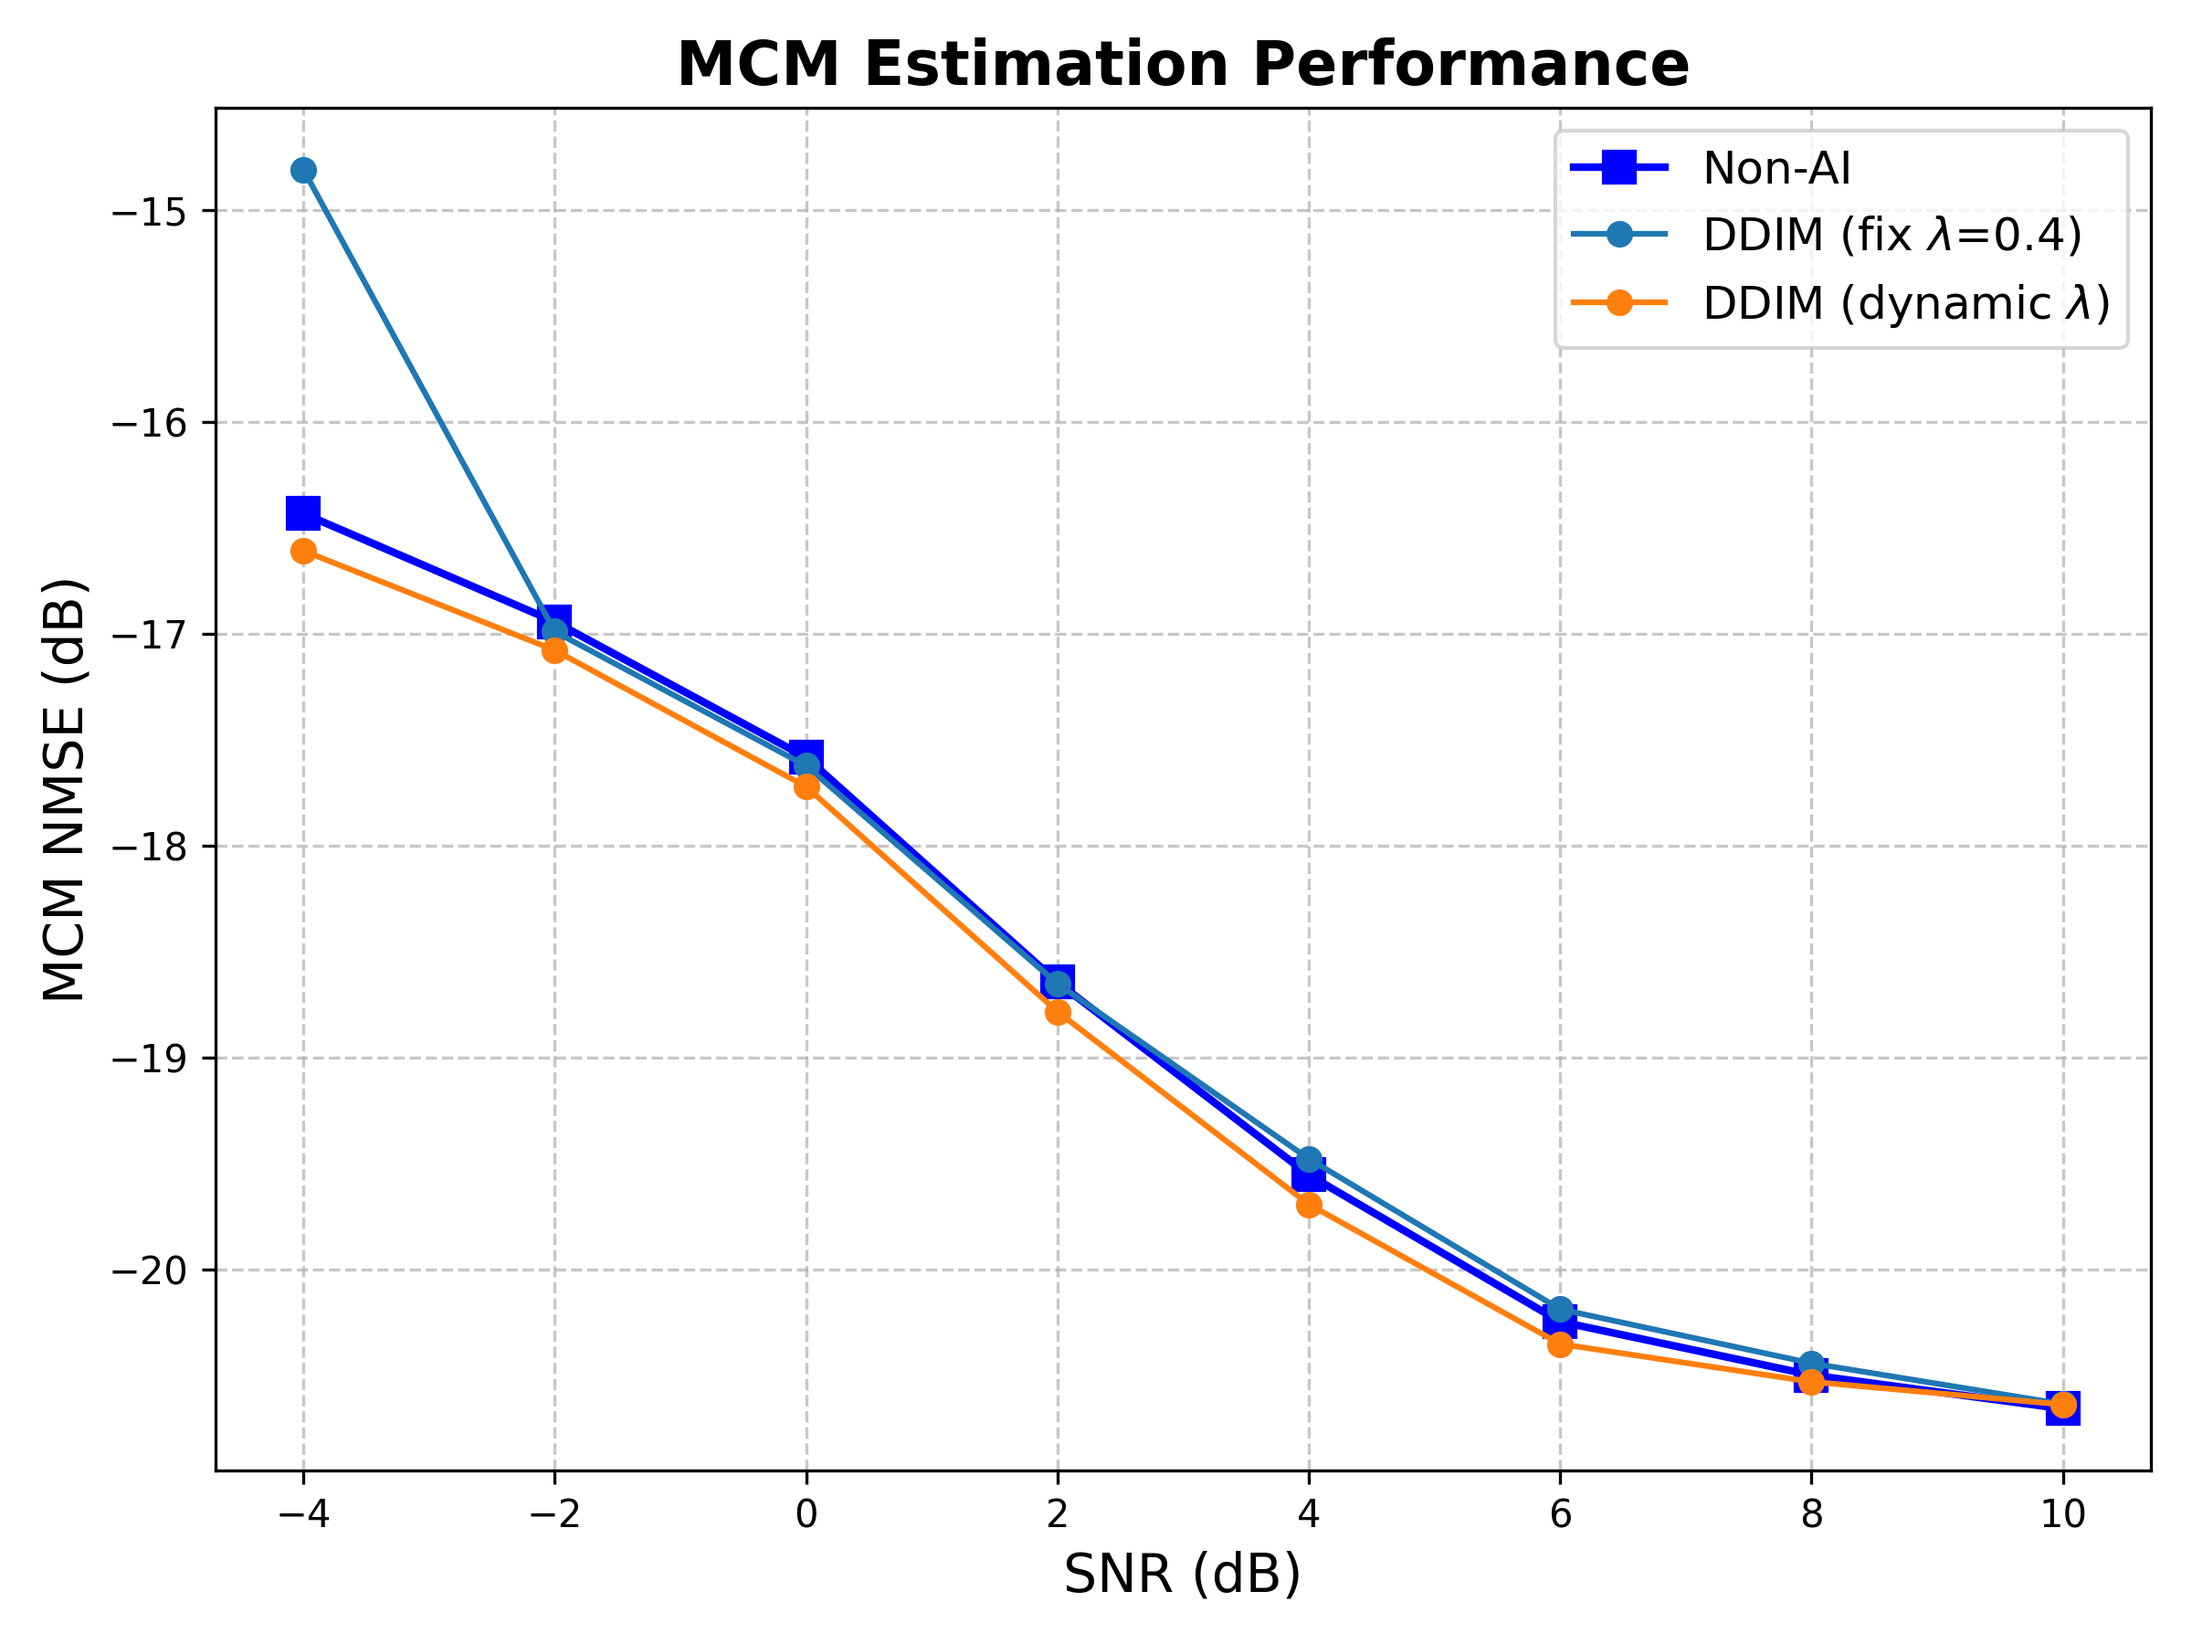
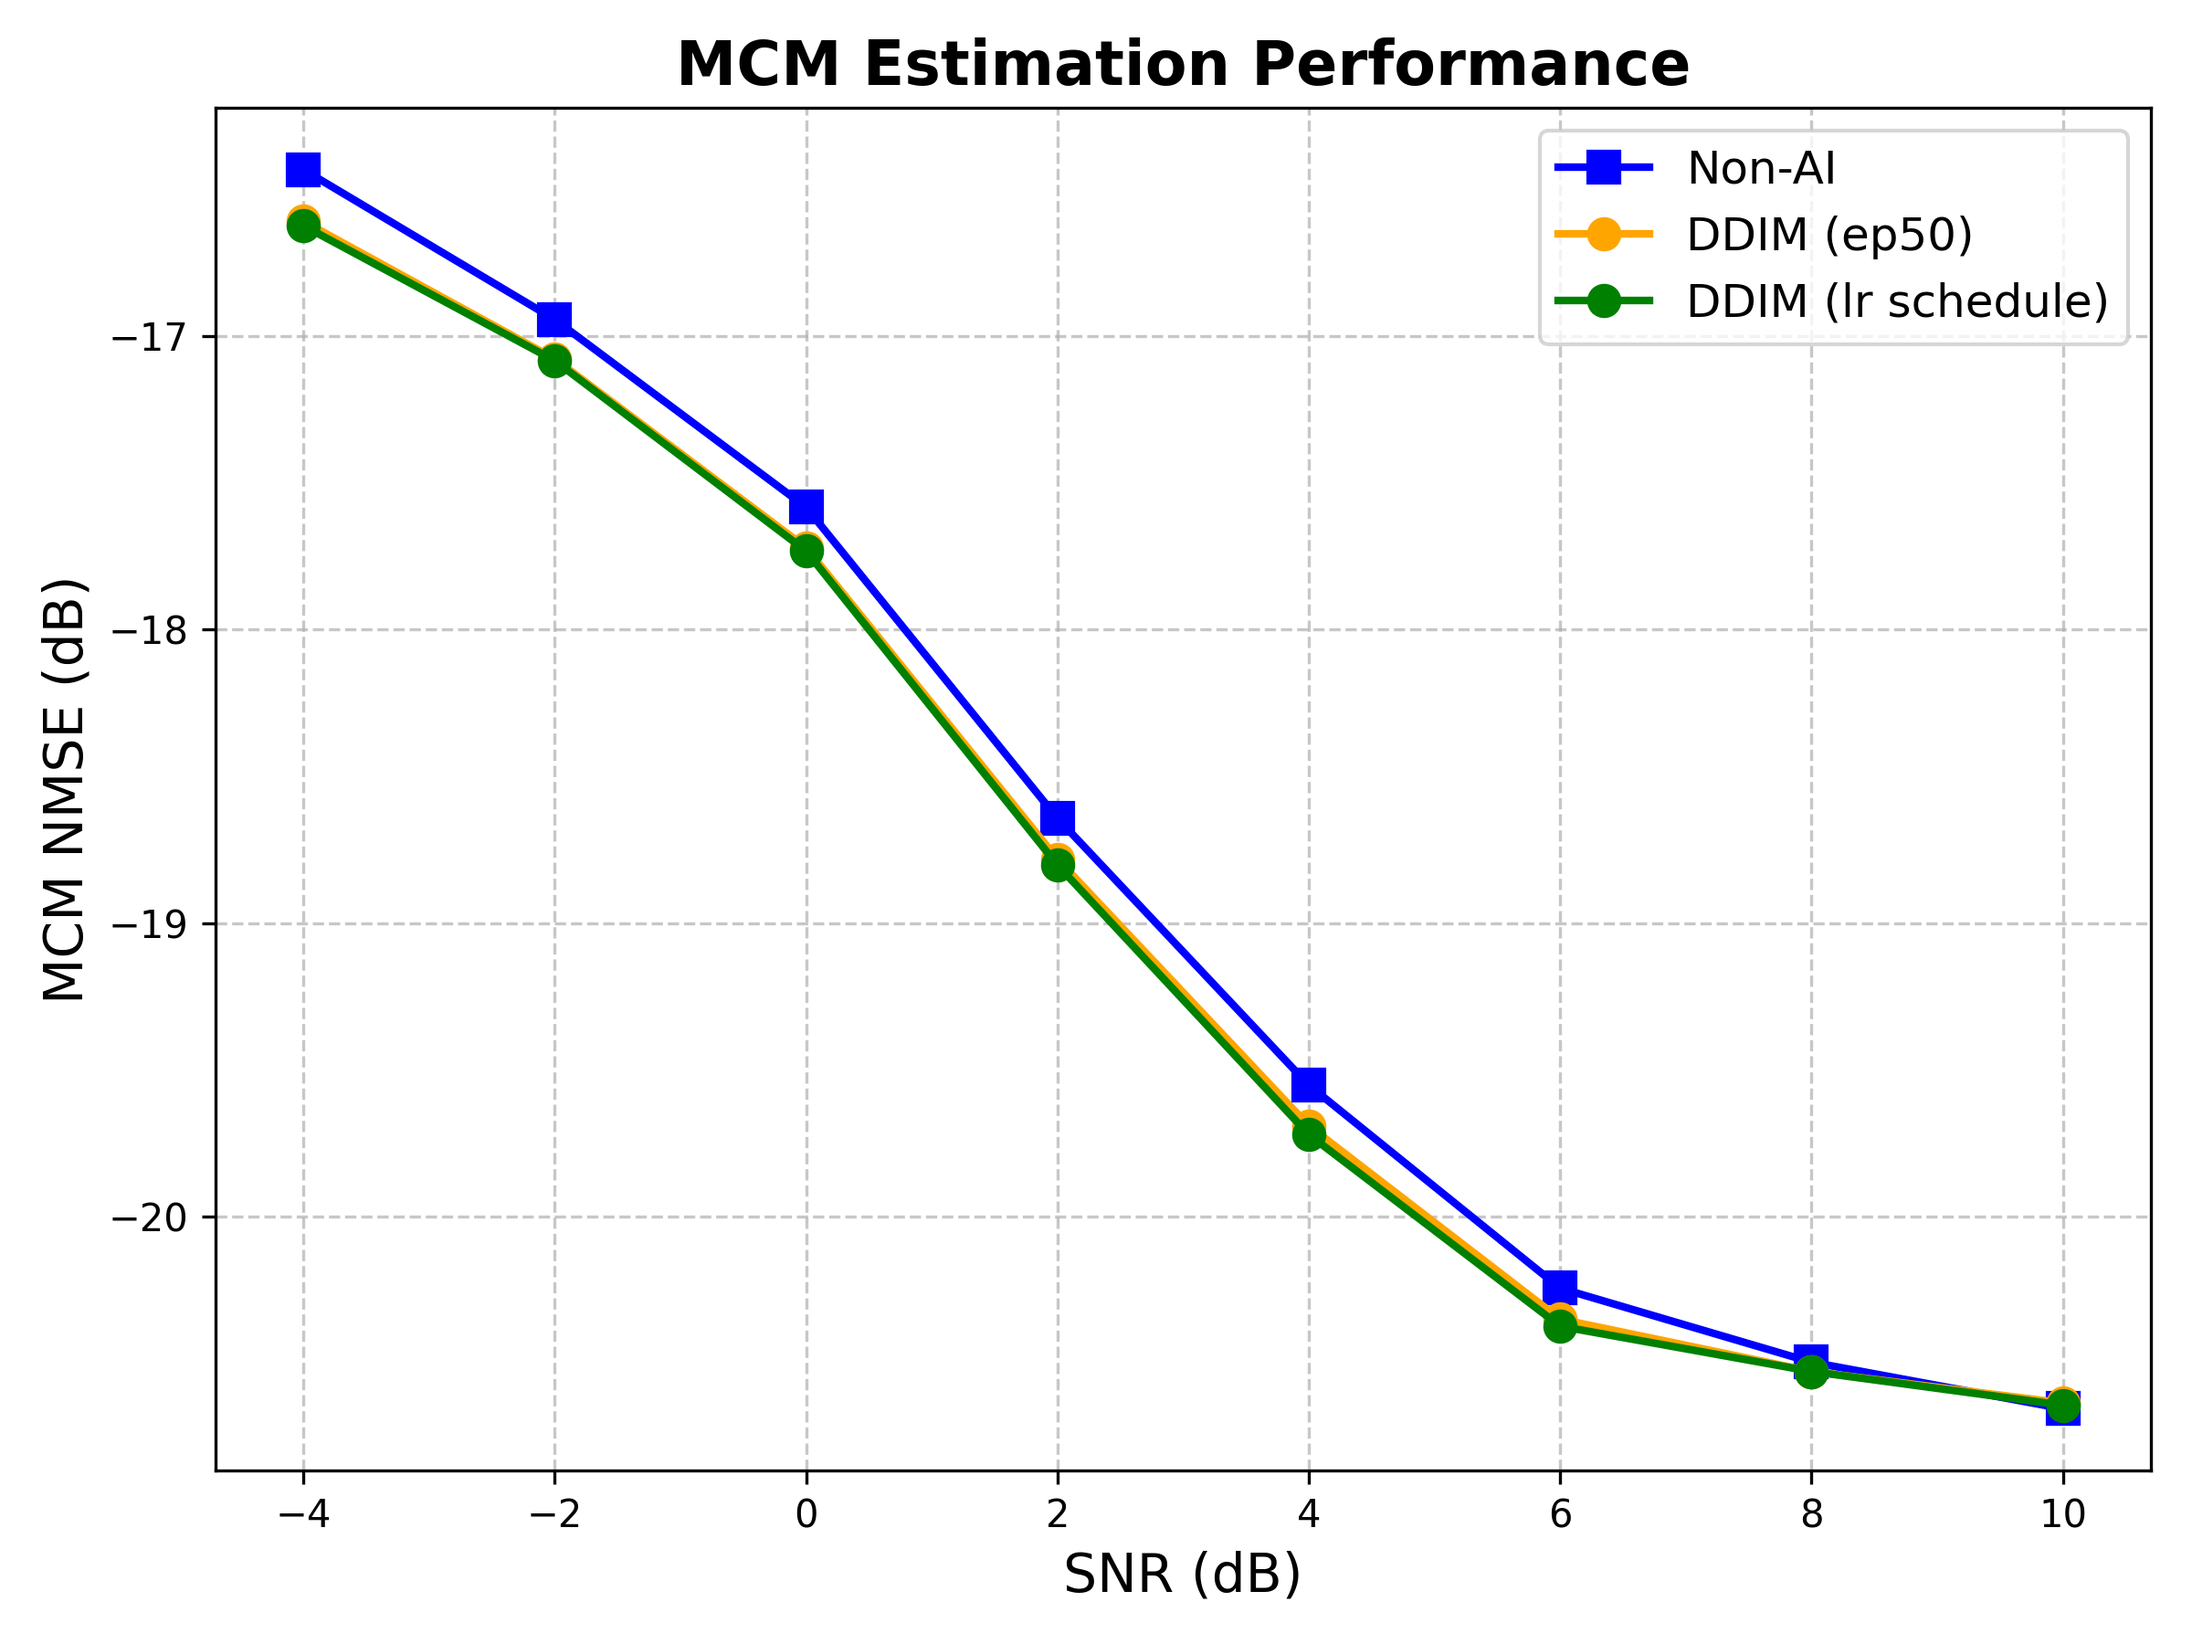
feat(train): implement train learning rate schedule and early stopping
- Added `ReduceLROnPlateau` scheduler and early stopping logic to prevent overfitting.
- Optimized model saving logic to trigger immediately after early stop.

diff --git a/sim2/DDIM/train.py b/sim2/DDIM/train.py
@@ -1,82 +1,164 @@
 import torch
 import os
+import copy
 from diffusion.continuous_beta import alpha_bar_of_t
 
-# For brevity, we implement a small training runner here; you can call it from main
-
 def train_epsilon_net(Xs, model_type='unet1d', num_epochs=5, batch_size=64, lr=1e-3,
-                      beta_min=1e-4, beta_max=0.02, T=50, device=None, script_dir=None):
+                      beta_min=1e-4, beta_max=0.02, T=50,
+                      val_split=0.1, patience=15, # Early stopping params
+                      device=None, script_dir=None):
+    
     device = device or torch.device('cpu')
     S, Nloc, Lloc = Xs.shape  # num of samples, num of antenna, num of snapshots L
     dim = 2 * Nloc  # concat the real and imaginary part
 
+    # --- 1. Data Preparation ---
     # (S, N, L) -> (S, L, N) -> (S*L, N) -> (S*L, 2N) for parallelly training
     Xs_flat = Xs.permute(0, 2, 1).reshape(-1, Nloc)
     Xs_real = torch.cat([Xs_flat.real, Xs_flat.imag], dim=-1).to(device)
-    num_total_snapshots = Xs_real.shape[0]
+    
+    # Split into Train and Validation
+    num_total = Xs_real.shape[0]
+    num_val = int(num_total * val_split)
+    num_train = num_total - num_val
 
-    # data normalization statistics
-    data_mean = torch.mean(Xs_real)
-    data_std = torch.std(Xs_real)
-    # Prevent division by zero
+    # Shuffle before splitting
+    indices = torch.randperm(num_total, device=device)
+    train_idx, val_idx = indices[:num_train], indices[num_train:]
+    
+    train_data = Xs_real[train_idx]
+    val_data = Xs_real[val_idx]
+
+    # Compute normalization stats on TRAINING data only
+    data_mean = torch.mean(train_data)
+    data_std = torch.std(train_data)
     if data_std < 1e-8: data_std = torch.tensor(1.0, device=device)
-    # Normalize training data
-    Xs_real_norm = (Xs_real - data_mean) / data_std
 
-    # NN model init
+    # Apply normalization
+    train_data_norm = (train_data - data_mean) / data_std
+    val_data_norm = (val_data - data_mean) / data_std
+    print(f"[Info] Training Samples: {num_train} | Validation Samples: {num_val}")
+
+    # --- 2. Model & Optimizer Setup ---
     if model_type == 'unet1d':
         from models.epsnet_unet1d import EpsNetUNet1D as Net
         net = Net(dim=dim).to(device)
     else:
         from models.epsnet_mlp import EpsNetMLP as Net
         net = Net(dim=dim, hidden=1024, time_emb_dim=128).to(device)
-    opt = torch.optim.Adam(net.parameters(), lr=1e-3)
+    opt = torch.optim.Adam(net.parameters(), lr=lr)
 
-    iters_per_epoch = max(1, num_total_snapshots // batch_size)
+    # Learning Rate Scheduler: Reduce LR if val_loss plateaus
+    scheduler = torch.optim.lr_scheduler.ReduceLROnPlateau(
+        opt, mode='min', factor=0.5, patience=5, verbose=True
+    )
+
+    # Early Stopping Variables
+    best_val_loss = float('inf')
+    early_stop_counter = 0
+    best_model_state = None
+    best_epoch = 0
+
+    # --- 3. Training Loop ---
+    iters_per_epoch = max(1, num_train // batch_size)
     for epoch in range(num_epochs):
-        total_loss = 0.0
-        indices = torch.randperm(num_total_snapshots, device=device) # eq. to shuffling
+        # --- A. Train Step ---
+        net.train()
+        total_train_loss = 0.0
+        train_indices = torch.randperm(num_train, device=device) # eq. to shuffling
         for i in range(iters_per_epoch):
             # draw the indices for the batch and use it to draw the flatten data
             start = i * batch_size
             end = start + batch_size
-            batch_idx = indices[start:end]
-            x0_batch_real = Xs_real_norm[batch_idx]  # (Batch size, 2N)
+            batch_idx = train_indices[start:end]
+            x0_batch = train_data_norm[batch_idx]  # (Batch size, 2N)
 
             # randomly pick a time step \x_t to train
-            t_cont = torch.rand(batch_size, device=device) * T   # in this case, T = 50
+            t_cont = torch.rand(x0_batch.shape[0], device=device) * T   # in this case, T = 50
 
             # simple q_sample continuous
             a_bar = alpha_bar_of_t(t_cont, beta_min, beta_max, T)
             sqrt_a = torch.sqrt(a_bar).view(-1,1)
             sqrt_1ma = torch.sqrt(1.0 - a_bar).view(-1,1)
 
-            noise = torch.randn_like(x0_batch_real)
-            x_t = sqrt_a * x0_batch_real + sqrt_1ma * noise
+            noise = torch.randn_like(x0_batch)
+            x_t = sqrt_a * x0_batch + sqrt_1ma * noise
 
             pred_eps = net(x_t, t_cont)
             loss = torch.mean((pred_eps - noise)**2)
 
             opt.zero_grad(); loss.backward(); opt.step()
-            total_loss += float(loss.item())
-        print(f"Epoch {epoch+1}/{num_epochs}, loss={total_loss/iters_per_epoch:.6f}")
-    
-    checkpoint = {
-        'model_state_dict': net.state_dict(),
-        'config': {
-            'T': T,
-            'beta_min': beta_min,
-            'beta_max': beta_max
-        },
-        'data_mean': data_mean, # SAVE STATS
-        'data_std': data_std
-    }
-    file_name = f"DDIM_ep{epoch+1}_lr{lr:.0e}_t{int(T)}_bmax{beta_max:.0e}.pth"
-    dataset_dir = os.path.join(script_dir, "weights")
-    if not os.path.exists(dataset_dir):
-        os.makedirs(dataset_dir)
-    save_path = os.path.join(dataset_dir, file_name)
-    torch.save(checkpoint, save_path)
-    print(f"Model and statistics saved to {save_path}")
+            total_train_loss += float(loss.item())
+        avg_train_loss = total_train_loss / iters_per_epoch
+
+        # --- B. Validation Step (No Grad) ---
+        net.eval()
+        total_val_loss = 0.0
+        with torch.no_grad():
+            # Process validation set in chunks to avoid OOM
+            val_iters = max(1, num_val // batch_size)
+            for i in range(val_iters):
+                start = i * batch_size
+                end = min(start + batch_size, num_val)
+                x0_val = val_data_norm[start:end]
+                
+                t_cont_val = torch.rand(x0_val.shape[0], device=device) * T
+                a_bar_val = alpha_bar_of_t(t_cont_val, beta_min, beta_max, T)
+                x_t_val = torch.sqrt(a_bar_val).view(-1,1) * x0_val + \
+                          torch.sqrt(1.0 - a_bar_val).view(-1,1) * torch.randn_like(x0_val)
+                
+                # Note: We calculate loss against the ADDED noise, but since we generated it
+                # implicitly above, let's regenerate explicitly for loss calculation
+                noise_val = torch.randn_like(x0_val)
+                x_t_val = torch.sqrt(a_bar_val).view(-1,1) * x0_val + \
+                          torch.sqrt(1.0 - a_bar_val).view(-1,1) * noise_val
+                
+                pred_val = net(x_t_val, t_cont_val)
+                val_loss = torch.mean((pred_val - noise_val)**2)
+                total_val_loss += val_loss.item()
         
+        avg_val_loss = total_val_loss / val_iters
+
+        # --- C. Logging & Updates ---
+        current_lr = opt.param_groups[0]['lr']
+        print(f"Epoch {epoch+1}/{num_epochs} | Train Loss: {avg_train_loss:.6f} | Val Loss: {avg_val_loss:.6f} | LR: {current_lr:.2e}")
+        # Update Scheduler
+        scheduler.step(avg_val_loss)
+
+        # Early Stopping Logic
+        if avg_val_loss < best_val_loss:
+            best_val_loss = avg_val_loss
+            early_stop_counter = 0
+            best_model_state = copy.deepcopy(net.state_dict()) # Keep best in memory
+            best_epoch = epoch + 1  # [NEW] Record the epoch number
+        else:
+            early_stop_counter += 1
+            if early_stop_counter >= patience:
+                print(f"[Info] Early stopping triggered at epoch {epoch+1}")
+                break
+
+    # --- 4. Finalize & Save ---
+    print(f"Training finished. Best Val Loss: {best_val_loss:.6f} at Epoch {best_epoch}")
+    
+    # Load the best weights back into the model before returning
+    if best_model_state is not None:
+        net.load_state_dict(best_model_state)
+        if script_dir:
+            dataset_dir = os.path.join(script_dir, "weights")
+            if not os.path.exists(dataset_dir): os.makedirs(dataset_dir)
+            
+            file_name = f"DDIM_{model_type}_lr{lr:.0e}_t{int(T)}.pth"
+            save_path = os.path.join(dataset_dir, file_name)
+            
+            checkpoint = {
+                'model_state_dict': best_model_state,
+                'config': {'T': T, 'beta_min': beta_min, 'beta_max': beta_max},
+                'data_mean': data_mean,
+                'data_std': data_std,
+                'epoch': best_epoch,  # Use the tracked best_epoch
+                'val_loss': best_val_loss
+            }
+            torch.save(checkpoint, save_path)
+            print(f"Best model saved to {save_path}")
+
     return net

diff --git a/sim2/DDIM/main_dynamic_lambda.py b/sim2/DDIM/main_dynamic_lambda.py
@@ -13,12 +13,14 @@ SNR_LEVELS=[-4, -2, 0, 2, 4, 6, 8, 10]
 CUDA = 1
 
 # Training settings
-NUM_EPOCHS = 50
-BATCH_SIZE = 4096
-LR = 1e-4
+NUM_EPOCHS = 1000
+TRAIN_BATCH_SIZE = 4096
+LR = 1e-3
 MODEL_TYPE = 'mlp'
 NUM_TRAIN_SAMPLES = int(5000)  # try 1e5
 NUM_TEST_SAMPLES = int(3000)    
+VAL_SPLIT = 0.1
+PATIENCE = 15
 
 # Difussion process settings
 BETA_MIN=1e-4
@@ -28,7 +30,8 @@ NUM_SAMPLING_STEPS=50
 GUIDANCE_LAMBDA=0.4
 
 # testing settings
-MODEL_WEIGHT_FILE_NAME = f"DDIM_ep{NUM_EPOCHS}_lr{LR:.0e}_t{int(T_DIFFUSION)}_bmax{BETA_MAX:.0e}.pth"
+TEST_BATCH_SIZE = 1000
+MODEL_WEIGHT_FILE_NAME = f"DDIM_BEST_lr{LR:.0e}_t{int(T_DIFFUSION)}.pth"
 NMSE_RESULT_FILE_NAME = f"NMSE_dy_{MODEL_WEIGHT_FILE_NAME.split('.')[0]}.mat"
 
 # -----------------------------
@@ -53,9 +56,9 @@ if MODE == 'train':
     # -----------------------------
     print('[Info] Training epsilon net...')
     # Original: 'unet1d'
-    eps_net = train_epsilon_net(Xs_train, MODEL_TYPE, 
-                                NUM_EPOCHS, BATCH_SIZE, LR,
+    eps_net = train_epsilon_net(Xs_train, MODEL_TYPE, NUM_EPOCHS, TRAIN_BATCH_SIZE, LR,
                                 BETA_MIN, BETA_MAX, T_DIFFUSION, 
+                                VAL_SPLIT, PATIENCE,
                                 device, script_dir)
 
 # -----------------------------

diff --git a/sim2/DDIM/test_results/NMSE_plot.py b/sim2/DDIM/test_results/NMSE_plot.py
@@ -10,8 +10,8 @@ import numpy as np
 # load .mat files to plot
 FILES = {
     "Non-AI": "NMSE_Baseline_non_AI.mat",
-    "DDIM (fix $\lambda$=0.4)":   "NMSE_DDIM_ep50_lr1e-04_t1000_bmax2e-02.mat",
-    "DDIM (dynamic $\lambda$)" :      "NMSE_dy_DDIM_ep50_lr1e-04_t1000_bmax2e-02.mat"
+    "DDIM (ep50)" :  "NMSE_dy_DDIM_ep50_lr1e-04_t1000_bmax2e-02.mat",
+    "DDIM (lr schedule)":  "NMSE_dy_DDIM_BEST_lr1e-03_t1000.mat",
 }
 
 # 'g-o'  -> color: green, linestyle: -,  marker: o
@@ -24,14 +24,14 @@ STYLES = {
         'linewidth': 2, 
         'markersize': 8
     },
-    "DDIM": {
-        'color': 'yellow', 
+    "DDIM (ep50)": {
+        'color': 'orange', 
         'marker': 'o', 
         'linestyle': '-',  
         'linewidth': 2, 
         'markersize': 8
     },
-    "DDIM  (dynamic $\lambda$)": {
+    "DDIM (lr schedule)": {
         'color': 'green', 
         'marker': 'o', 
         'linestyle': '-',  
